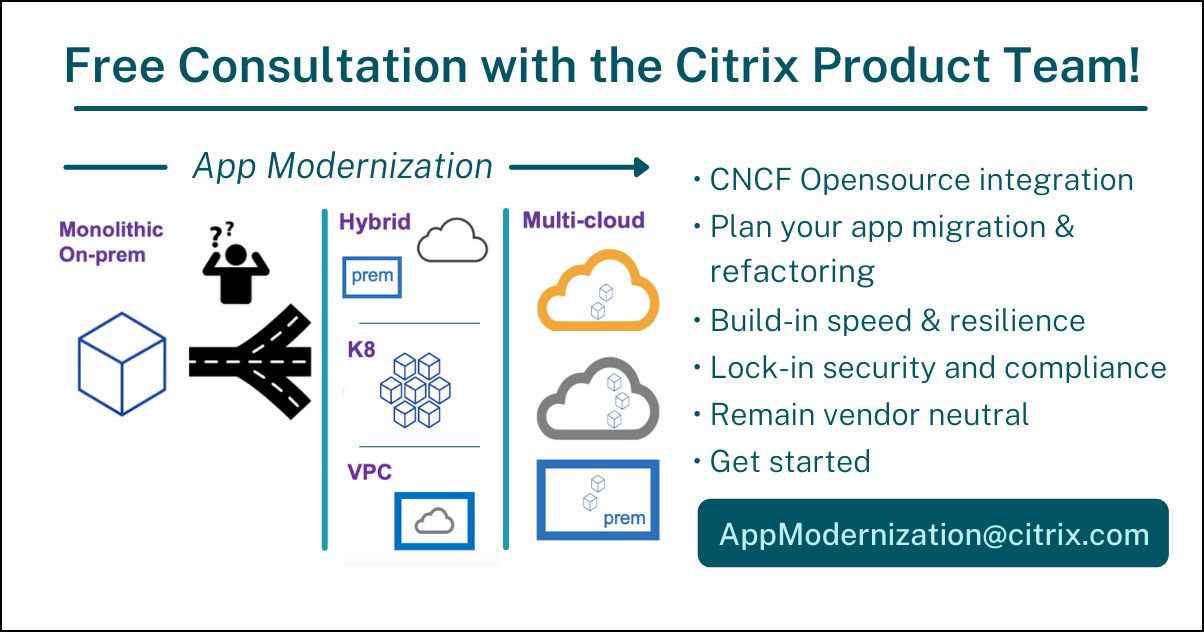
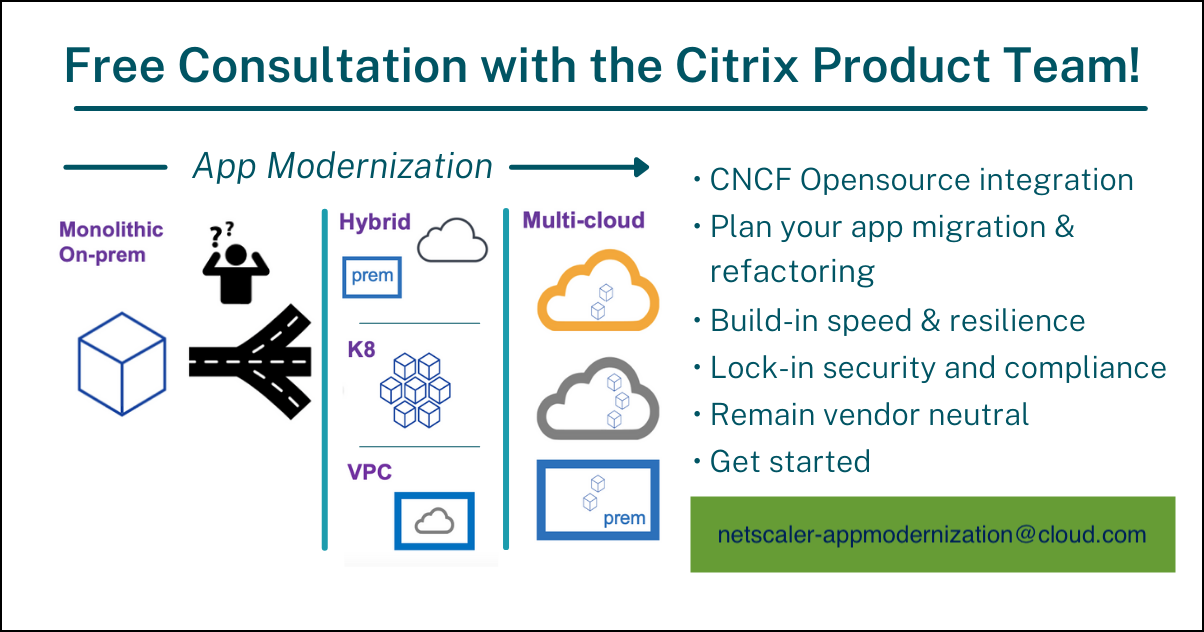
Updating email id

Changed region(s): [[0.5532, 0.7816, 0.9834, 0.932]]

diff --git a/README.md b/README.md
@@ -1,35 +1,33 @@
-[![Docker Repository on Quay](https://quay.io/repository/citrix/citrix-k8s-ingress-controller/status "Docker Repository on Quay")](https://quay.io/repository/citrix/citrix-k8s-ingress-controller)
+[![Docker Repository on Quay](https://quay.io/repository/netscaler/netscaler-k8s-ingress-controller/status)](https://quay.io/repository/netscaler/netscaler-k8s-ingress-controller)
 [![License](https://img.shields.io/badge/License-Apache%202.0-blue.svg)](./license/LICENSE)
-[![GitHub stars](https://img.shields.io/github/stars/citrix/citrix-k8s-ingress-controller.svg)](https://github.com/citrix/citrix-k8s-ingress-controller/stargazers)
-[![HitCount](http://hits.dwyl.com/citrix/citrix-k8s-ingress-controller.svg)](http://hits.dwyl.com/citrix/citrix-k8s-ingress-controller)
+[![GitHub stars](https://img.shields.io/github/stars/netscaler/netscaler-k8s-ingress-controller.svg)](https://github.com/netscaler/netscaler-k8s-ingress-controller/stargazers)
+[![HitCount](https://hits.dwyl.com/netscaler/netscaler-k8s-ingress-controller.svg)](http://hits.dwyl.com/netscaler/netscaler-k8s-ingress-controller)
 [![Artifact Hub](https://img.shields.io/endpoint?url=https://artifacthub.io/badge/repository/netscaler)](https://artifacthub.io/packages/search?repo=netscaler)
 ---
 
-# Citrix ingress controller
+# NetScaler Ingress Controller
 
 ## Description
 
-This repository contains the Citrix ingress controller built around [Kubernetes Ingress](https://kubernetes.io/docs/concepts/services-networking/ingress/).
+This repository contains the NetScaler ingress controller built around [Kubernetes Ingress](https://kubernetes.io/docs/concepts/services-networking/ingress/).
 ##### Participate:
 
-   You can discuss questions/bugs/feature requests for this project on our Slack channel. To request an invitation to participate in the [Citrix ADC Cloud Native Slack channel](https://citrixadccloudnative.slack.com), provide your email address using the following form:
-   https://podio.com/webforms/22979270/1633242. 
-   You can also report issues using the bug reporting template.
+   You can reach out for any questions via our email: **netscaler-appmodernization@cloud.com** or fill [this](https://podio.com/webforms/22979270/1633242) form.
 
 ## What is an ingress controller?
 
 An Ingress Controller is a [controller](https://kubernetes.io/docs/concepts/architecture/controller/) that watches the Kubernetes API server for updates to the Ingress resource and reconfigures the Ingress load balancer accordingly.
 
-## What is the Citrix ingress controller?
+## What is the NetScaler ingress controller?
 
-Citrix provides an ingress controller for Citrix ADC MPX (hardware), Citrix ADC VPX (virtualized), and Citrix ADC CPX (containerized) for [bare metal](https://github.com/citrix/citrix-k8s-ingress-controller/tree/master/deployment/baremetal) and [cloud](https://github.com/citrix/citrix-k8s-ingress-controller/tree/master/deployment) deployments. It is built around Kubernetes [Ingress](https://kubernetes.io/docs/concepts/services-networking/ingress/) and automatically configures Citrix ADC based on the Ingress resource configuration.
+NetScaler provides an ingress controller for NetScaler MPX (hardware), NetScaler VPX (virtualized), and NetScaler CPX (containerized) for [bare metal](https://github.com/netscaler/netscaler-k8s-ingress-controller/tree/master/deployment/baremetal) and [cloud](https://github.com/netscaler/netscaler-k8s-ingress-controller/tree/master/deployment) deployments. It is built around Kubernetes [Ingress](https://kubernetes.io/docs/concepts/services-networking/ingress/) and automatically configures NetScaler based on the Ingress resource configuration.
 
-The Citrix ingress controller can be deployed either by directly using [yamls](https://github.com/citrix/citrix-k8s-ingress-controller/tree/master/deployment/baremetal) or by [helm charts](https://github.com/citrix/citrix-k8s-ingress-controller/tree/master/charts).
+The NetScaler ingress controller can be deployed either by directly using [yamls](https://github.com/netscaler/netscaler-k8s-ingress-controller/tree/master/deployment/baremetal) or by [helm charts](https://github.com/netscaler/netscaler-k8s-ingress-controller/tree/master/charts).
 
 ## Features
 
-Features supported by the Citrix ingress controller can be found [here](https://github.com/citrix/citrix-k8s-ingress-controller/tree/master/deployment).
-The Citrix API Gateway features can be found [here](https://github.com/citrix/citrix-k8s-ingress-controller/blob/master/docs/deploy/citrix-api-gateway.md).
+Features supported by the NetScaler ingress controller can be found [here](https://github.com/netscaler/netscaler-k8s-ingress-controller/tree/master/deployment).
+The NetScaler API Gateway features can be found [here](https://github.com/netscaler/netscaler-k8s-ingress-controller/blob/master/docs/deploy/citrix-api-gateway.md).
 
 ## Supported platforms and deployments
 
@@ -37,54 +35,53 @@ Click [here](docs/support-matrix.md) for detailed list of supported platforms an
 
 ## Documentation
 
-For detailed documentation, see the [Citrix ingress controller Live Documentation](https://developer-docs.citrix.com/projects/citrix-k8s-ingress-controller/en/latest/).
+For detailed documentation, see the [Netscaler ingress controller Live Documentation](https://docs.netscaler.com/en-us/netscaler-k8s-ingress-controller/).
 
 ## Deployment solutions
 
-You can deploy the Citrix ingress controller in many platforms. For detailed information, see [Deployment Architecture](https://github.com/citrix/citrix-k8s-ingress-controller/tree/master/deployment).
+You can deploy the NetScaler ingress controller in many platforms. For detailed information, see [Deployment Architecture](https://github.com/netscaler/netscaler-k8s-ingress-controller/tree/master/deployment).
 
 ## Examples
 
-Deploy the Guestbook application and use the [Citrix ADC CPX](https://www.citrix.com/products/citrix-adc/cpx-express.html) to provide the Ingress:
+Deploy the Guestbook application and use the [NetScaler CPX](https://docs.netscaler.com/en-us/cpx/current-release/about.html) to provide the Ingress:
 
 -  [Quick Deploy using YAML](./example)
--  [Quick Deploy using Helm](https://github.com/citrix/citrix-helm-charts/tree/master/examples/citrix-cpx-with-ingress-controller)
+-  [Quick Deploy using Helm](https://github.com/netscaler/netscaler-helm-charts/tree/master/examples/netscaler-cpx-with-ingress-controller)
 -  [Quick Deploy using Kops](./docs/deploy/deploy-cic-kops.md)
--  [Deployment in Google Cloud](https://github.com/citrix/citrix-k8s-ingress-controller/blob/master/deployment/gcp)
--  [Deployment in Azure Cloud](https://github.com/citrix/citrix-k8s-ingress-controller/tree/master/deployment/azure)
+-  [Deployment in Google Cloud](https://github.com/netscaler/netscaler-k8s-ingress-controller/blob/master/deployment/gcp)
+-  [Deployment in Azure Cloud](https://github.com/netscaler/netscaler-k8s-ingress-controller/tree/master/deployment/azure)
 
 ## Release notes
 
-Click [here](https://github.com/citrix/citrix-k8s-ingress-controller/releases) for the release notes of the latest Citrix ingress controller release.
+Click [here](https://github.com/netscaler/netscaler-k8s-ingress-controller/releases) for the release notes of the latest NetScaler ingress controller release.
 
 ## Questions and support
 
 For questions and support the following channels are available:
 
--  [Citrix Discussion Forum](https://discussions.citrix.com/forum/1657-netscaler-cpx/)
--  [Citrix ADC Cloud Native Slack Channel](https://citrixadccloudnative.slack.com/)
+-  [NetScaler Discussion Forum](https://community.citrix.com/forums/forum/8-microservices/)
 
-To request an invitation to participate in the Slack channel, provide your email address using this form: [https://podio.com/webforms/22979270/1633242](https://podio.com/webforms/22979270/1633242)
+To request an invitation to participate, provide your email address using this form: [https://podio.com/webforms/22979270/1633242](https://podio.com/webforms/22979270/1633242)
 
-For more information about Citrix cloud native solutions, you can reach out to the Citrix product team at: AppModernization@citrix.com
+For more information about NetScaler cloud native solutions, you can reach out to the NetScaler product team at: **netscaler-appmodernization@cloud.com**
 
 ![ ](./docs/media/contact-product-team.png)
 
 ## Issues
 
-Describe issues in detail, collect logs, and use the [discussion forum](https://discussions.citrix.com/forum/1657-netscaler-cpx/) to report issues.
+Describe issues in detail, collect logs, and use the [discussion forum](https://community.citrix.com/forums/forum/8-microservices/) to report issues.
 
 Use the following command to collect logs:
 
 ```
-Get Logs: kubectl logs citrix-k8s-ingress-controller > log_file
+Get Logs: kubectl logs netscaler-k8s-ingress-controller > log_file
 ```
 
 You can report any issues using the following forum:
-`https://discussions.citrix.com/forum/1657-netscaler-cpx/`
+`https://community.citrix.com/forums/forum/8-microservices/`
 
-For information on how to troubleshoot some of the common issues that you may encounter while using Citrix ADC CPX, see the
-[Citrix ADC CPX documentation](https://docs.citrix.com/en-us/citrix-adc-cpx/current-release/cpx-troubleshooting.html).
+For information on how to troubleshoot some of the common issues that you may encounter while using NetScaler CPX, see the
+[NetScaler CPX documentation](https://docs.netscaler.com/en-us/cpx/current-release/cpx-troubleshooting.html).
 
 ## Code of Conduct
 
